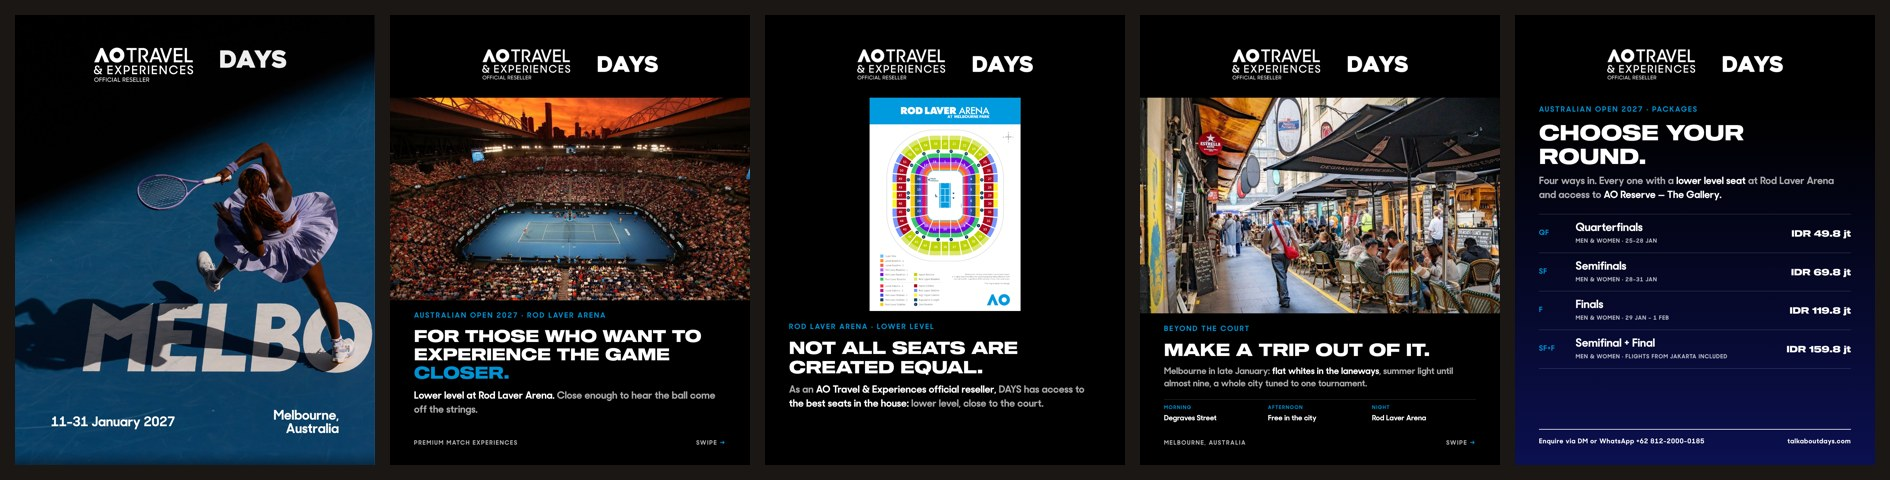
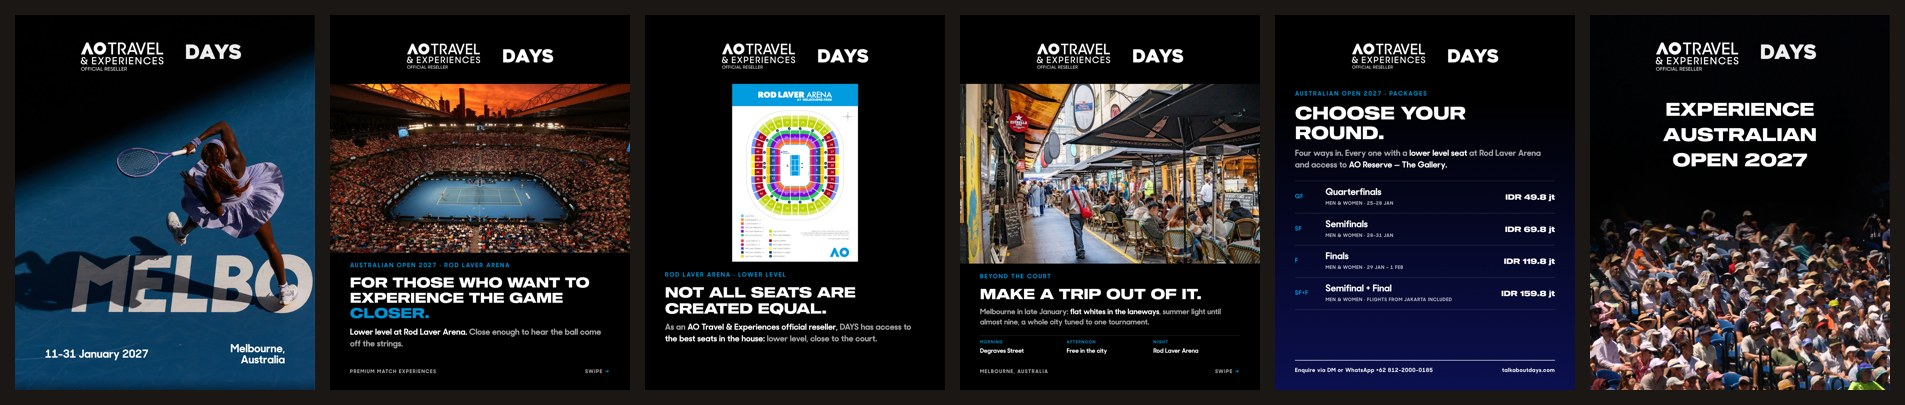
AO 2027: add AO-approved end card as the last slide of both posts
Claude-Session: https://claude.ai/code/session_01Eb5aT3tpEevDBBbf6MCDFd

diff --git a/social/ao-2027/render.js b/social/ao-2027/render.js
@@ -1,6 +1,6 @@
 // Builds the two AO 2027 launch posts into ./export:
-//   post-1-announcement/  01 = AO-approved cover, 02–05 = DAYS slides rendered from slides.html
-//   post-2-packages/      01 = DAYS cover (player cut-outs), 02–05 = the four AO-approved package cards
+//   post-1-announcement/  01 = AO-approved cover, 02–05 = DAYS slides rendered from slides.html, 06 = AO-approved end card
+//   post-2-packages/      01 = DAYS cover (player cut-outs), 02–05 = the four AO-approved package cards, 06 = AO-approved end card
 // Approved assets are copied byte-for-byte and never edited.
 // Usage: node render.js [deviceScaleFactor]   (needs the licensed fonts in ./fonts — see caption.md)
 const { chromium } = require('playwright');
@@ -9,7 +9,7 @@ const fs = require('fs');
 
 const posts = {
   'post-1-announcement': {
-    approved: { '01': 'AO27-cover.webp' },
+    approved: { '01': 'AO27-cover.webp', '06': 'AO27-end-card.webp' },
     days: { '02': '2', '03': '3', '04': '4', '05': '5' },
   },
   'post-2-packages': {
@@ -18,6 +18,7 @@ const posts = {
       '03': 'AO27-semifinals.png',
       '04': 'AO27-finals.png',
       '05': 'AO27-semifinal-final.png',
+      '06': 'AO27-end-card.webp',
     },
     days: { '01': 'c2' },
   },

diff --git a/social/ao-2027/caption.md b/social/ao-2027/caption.md
@@ -4,8 +4,8 @@ Two Instagram posts, both 4:5 carousels. Post the announcement first, then the p
 
 | Post | Folder | Slides |
 |---|---|---|
-| 1. Announcement | `export/post-1-announcement/` | 5 |
-| 2. Packages | `export/post-2-packages/` | 5 |
+| 1. Announcement | `export/post-1-announcement/` | 6 |
+| 2. Packages | `export/post-2-packages/` | 6 |
 
 Upload each folder's files in filename order.
 
@@ -16,7 +16,7 @@ Upload each folder's files in filename order.
 - Photos are shown whole: never cropped, covered, or placed over text or another photo.
 - No custom maps: slide 03 uses the official Rod Laver Arena seating map, whole and unaltered.
 - Wording: always "AO Travel & Experiences official reseller".
-- The AO cover and the four package cards are AO-approved and are never revised or altered. `render.js` copies them byte-for-byte from `approved/`.
+- The AO cover, the four package cards and the end card are AO-approved and are never revised or altered. `render.js` copies them byte-for-byte from `approved/`.
 - Approval: submit all artwork and copy to AO Travel & Experiences via Hightail (copy as Word: `AO27-captions-for-approval.docx`) at least five business days before posting.
 
 **Licensed files are not committed** (this repository is public): put `Sequel100Wide-85.ttf` and `SharpSans-No2-Bold.otf` in `fonts/`, and AO's logo files `AOTE-official-reseller-white.png` and `AOTE-official-reseller-black.png` in `brand/`, before rendering. Both folders are git-ignored.
@@ -35,6 +35,7 @@ Upload each folder's files in filename order.
 | 03 | *NOT ALL SEATS ARE CREATED EQUAL.* with the official Rod Laver Arena seating map | DAYS |
 | 04 | *MAKE A TRIP OUT OF IT.* (Melbourne) | DAYS |
 | 05 | *CHOOSE YOUR ROUND.* (the four packages + enquiry) | DAYS |
+| 06 | End card: *EXPERIENCE AUSTRALIAN OPEN 2027* over the crowd | AO-approved |
 
 ## Caption (English + Bahasa Indonesia, ready to post)
 
@@ -75,6 +76,7 @@ DM kami atau WhatsApp +62 812-2000-0185.
 | 03 | Semifinals · Men & Women · 28–31 Jan 2027 | AO-approved |
 | 04 | Finals · Men & Women · 29 Jan – 1 Feb 2027 | AO-approved |
 | 05 | Semifinal + Final · Men & Women | AO-approved |
+| 06 | End card: *EXPERIENCE AUSTRALIAN OPEN 2027* over the crowd | AO-approved |
 
 ## Caption (English + Bahasa Indonesia, ready to post)
 
